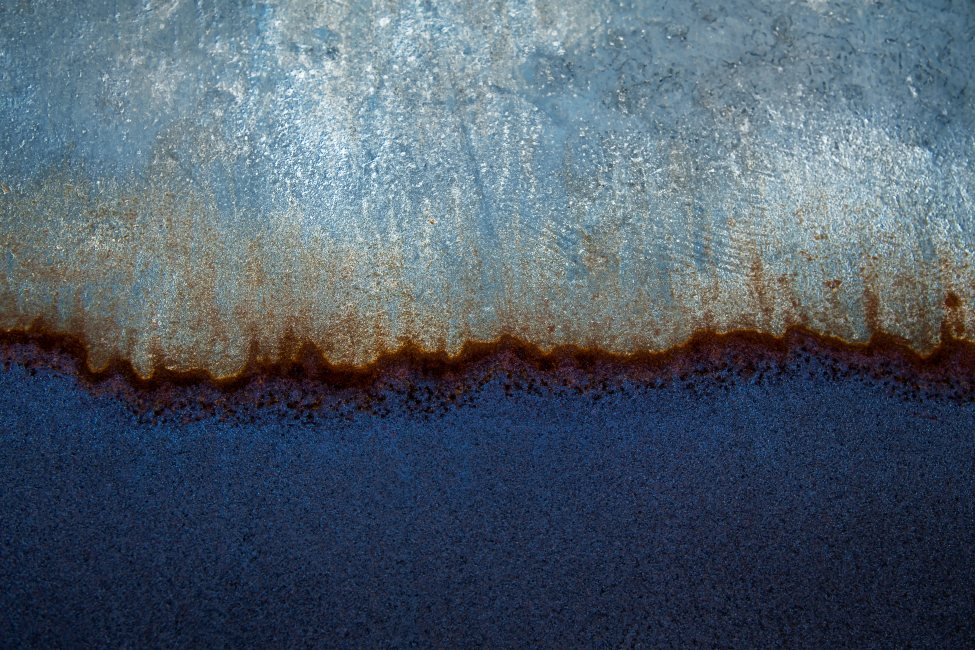
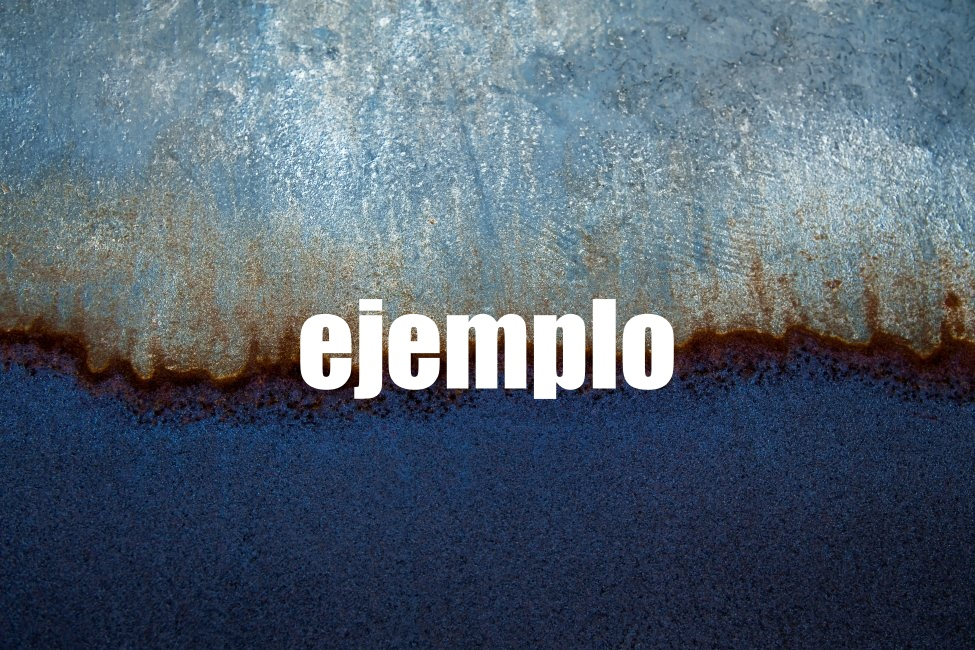
3.19

Changed region(s): [[0.3077, 0.4615, 0.7077, 0.6154]]

diff --git a/pz-grupocrianza.html b/pz-grupocrianza.html
@@ -50,13 +50,21 @@
 				<!-- Section -->
 					<section class="main alt">
 						<header>
-							<h2>Salidas de fin de semana</h2>
+							<h2>Grupos de crianza</h2>
 						</header>
 
 						<div class="inner style2">
-							<div class="image main" data-position="center"><img src="images/salidasinfantiles2.jpg" alt="" /></div>
+							<div class="image main" data-position="center"><img src="images/ejemplo.jpg" alt="" /></div>
 
-							<b><p align=justify>Ejemplo.</p></b>
+							<b><p align=justify>Una activitat pensada per petites i grans. Per compartir amb altres famílies inquietuds i vivències del dia a dia en vers la criança dels nostres fills i filles.</p></b>
+
+							<b><p align=justify>Un espai d'acompanyament per ser escoltat i escoltar sense judici.</p></b>
+
+							<b><p align=justify>Lactància, alimentació, són, moviment lliure, límits, autonomia i tot el que pugui anar sorgint.v</p></b>
+
+							<b><p align=justify>Les petites i els petits gaudiran d'un espai de joc adaptat a les seves necessitats i les famílies podran donar-se l'espai de compartir tot fent tribu i sentir-se cuidades per cuidar.</p></b>
+
+							<b><p align=justify>Una activitat pensada per petites i grans. Per compartir amb altres famílies inquietuds i vivències del dia a dia en vers la criança dels nostres fills i filles.</p></b>
 							
 						</div></b></b>
 					</section>
@@ -70,14 +78,9 @@
 						<div class="inner">
 							<ul class="faces">
 								<li>
-									<span class="image"><img src="images/Equipo/Noel.jpg"  alt="" /></span>
-									<h3><a href="eq-Noel.html">Noel Cresencio</a></h3>
-									<b><p>Organizador, Acompañante y Asesor</p></b>
-								</li>
-								<li>
-									<span class="image"><img src="images/Equipo/Leo.jpg"  alt="" /></span>
-									<h3><a href="eq-Leo.html">Leonardo M.</a></h3>
-									<b><p>Acompañante</p></b>
+									<span class="image"><img src="images/Equipo/Sara.jpg"  alt="" /></span>
+									<h3><a href="eq-Sara.html">Sara Maurel</a></h3>
+									<b><p>Acompañante y Asesora</p></b>
 								</li>
 							</ul>
 						</div>

diff --git a/p-infantil.html b/p-infantil.html
@@ -118,7 +118,7 @@
 								<div class="content">
 									<header>
 										<span class="category">Para niños y niñas</span>
-										<h3>Taller de psicomotricidad</h3>
+										<h3>Taller de psicomotricidad libre</h3>
 									</header>
 									<b><p align=justify>Pensado para ofrecer un espacio de movimiento seguro donde poder disfrutar de la motricidad y juego simbólico en relación con la presencia del acompañante en un entorno de confianza.</p></b>
 									<ul class="actions">
@@ -151,7 +151,7 @@
 								<div class="content">
 									<header>
 										<span class="category">Para niños y niñas</span>
-										<h3>Taller de psicomotricidad en familia</h3>
+										<h3>Taller de psicomotricidad libre en familia</h3>
 									</header>
 									<b><p align=justify>Pensado para ofrecer un espacio común de movimiento seguro para la familia en su conjunto y los acompañantes, donde poder disfrutar de la motricidad y el juego simbólico en relación con la presencia del acompañante en un entorno de confianza.</p></b>
 									<ul class="actions">

diff --git a/pz-tallerpsico.html b/pz-tallerpsico.html
@@ -50,11 +50,11 @@
 				<!-- Section -->
 					<section class="main alt">
 						<header>
-							<h2>Salidas de fin de semana</h2>
+							<h2>Taller de psicomotricidad libre</h2>
 						</header>
 
 						<div class="inner style2">
-							<div class="image main" data-position="center"><img src="images/salidasinfantiles2.jpg" alt="" /></div>
+							<div class="image main" data-position="center"><img src="images/tallerpsico.jpg" alt="" /></div>
 
 							<b><p align=justify>Ejemplo.</p></b>
 							
@@ -73,11 +73,6 @@
 									<span class="image"><img src="images/Equipo/Noel.jpg"  alt="" /></span>
 									<h3><a href="eq-Noel.html">Noel Cresencio</a></h3>
 									<b><p>Organizador, Acompañante y Asesor</p></b>
-								</li>
-								<li>
-									<span class="image"><img src="images/Equipo/Leo.jpg"  alt="" /></span>
-									<h3><a href="eq-Leo.html">Leonardo M.</a></h3>
-									<b><p>Acompañante</p></b>
 								</li>
 							</ul>
 						</div>

diff --git a/pz-tiroconarco.html b/pz-tiroconarco.html
@@ -70,13 +70,8 @@
 						<div class="inner">
 							<ul class="faces">
 								<li>
-									<span class="image"><img src="images/Equipo/Noel.jpg"  alt="" /></span>
-									<h3><a href="eq-Noel.html">Noel Cresencio</a></h3>
-									<b><p>Organizador, Acompañante y Asesor</p></b>
-								</li>
-								<li>
-									<span class="image"><img src="images/Equipo/Leo.jpg"  alt="" /></span>
-									<h3><a href="eq-Leo.html">Leonardo M.</a></h3>
+									<span class="image"><img src="images/Equipo/Eric.jpg"  alt="" /></span>
+									<h3><a href="eq-Eric.html">Eric Piquet</a></h3>
 									<b><p>Acompañante</p></b>
 								</li>
 							</ul>

diff --git a/pz-plantilla.html b/pz-plantilla.html
@@ -54,7 +54,7 @@
 						</header>
 
 						<div class="inner style2">
-							<div class="image main" data-position="center"><img src="images/salidasinfantiles2.jpg" alt="" /></div>
+							<div class="image main" data-position="center"><img src="images/ejemplo.jpg" alt="" /></div>
 
 							<b><p align=justify>Ejemplo.</p></b>
 							
